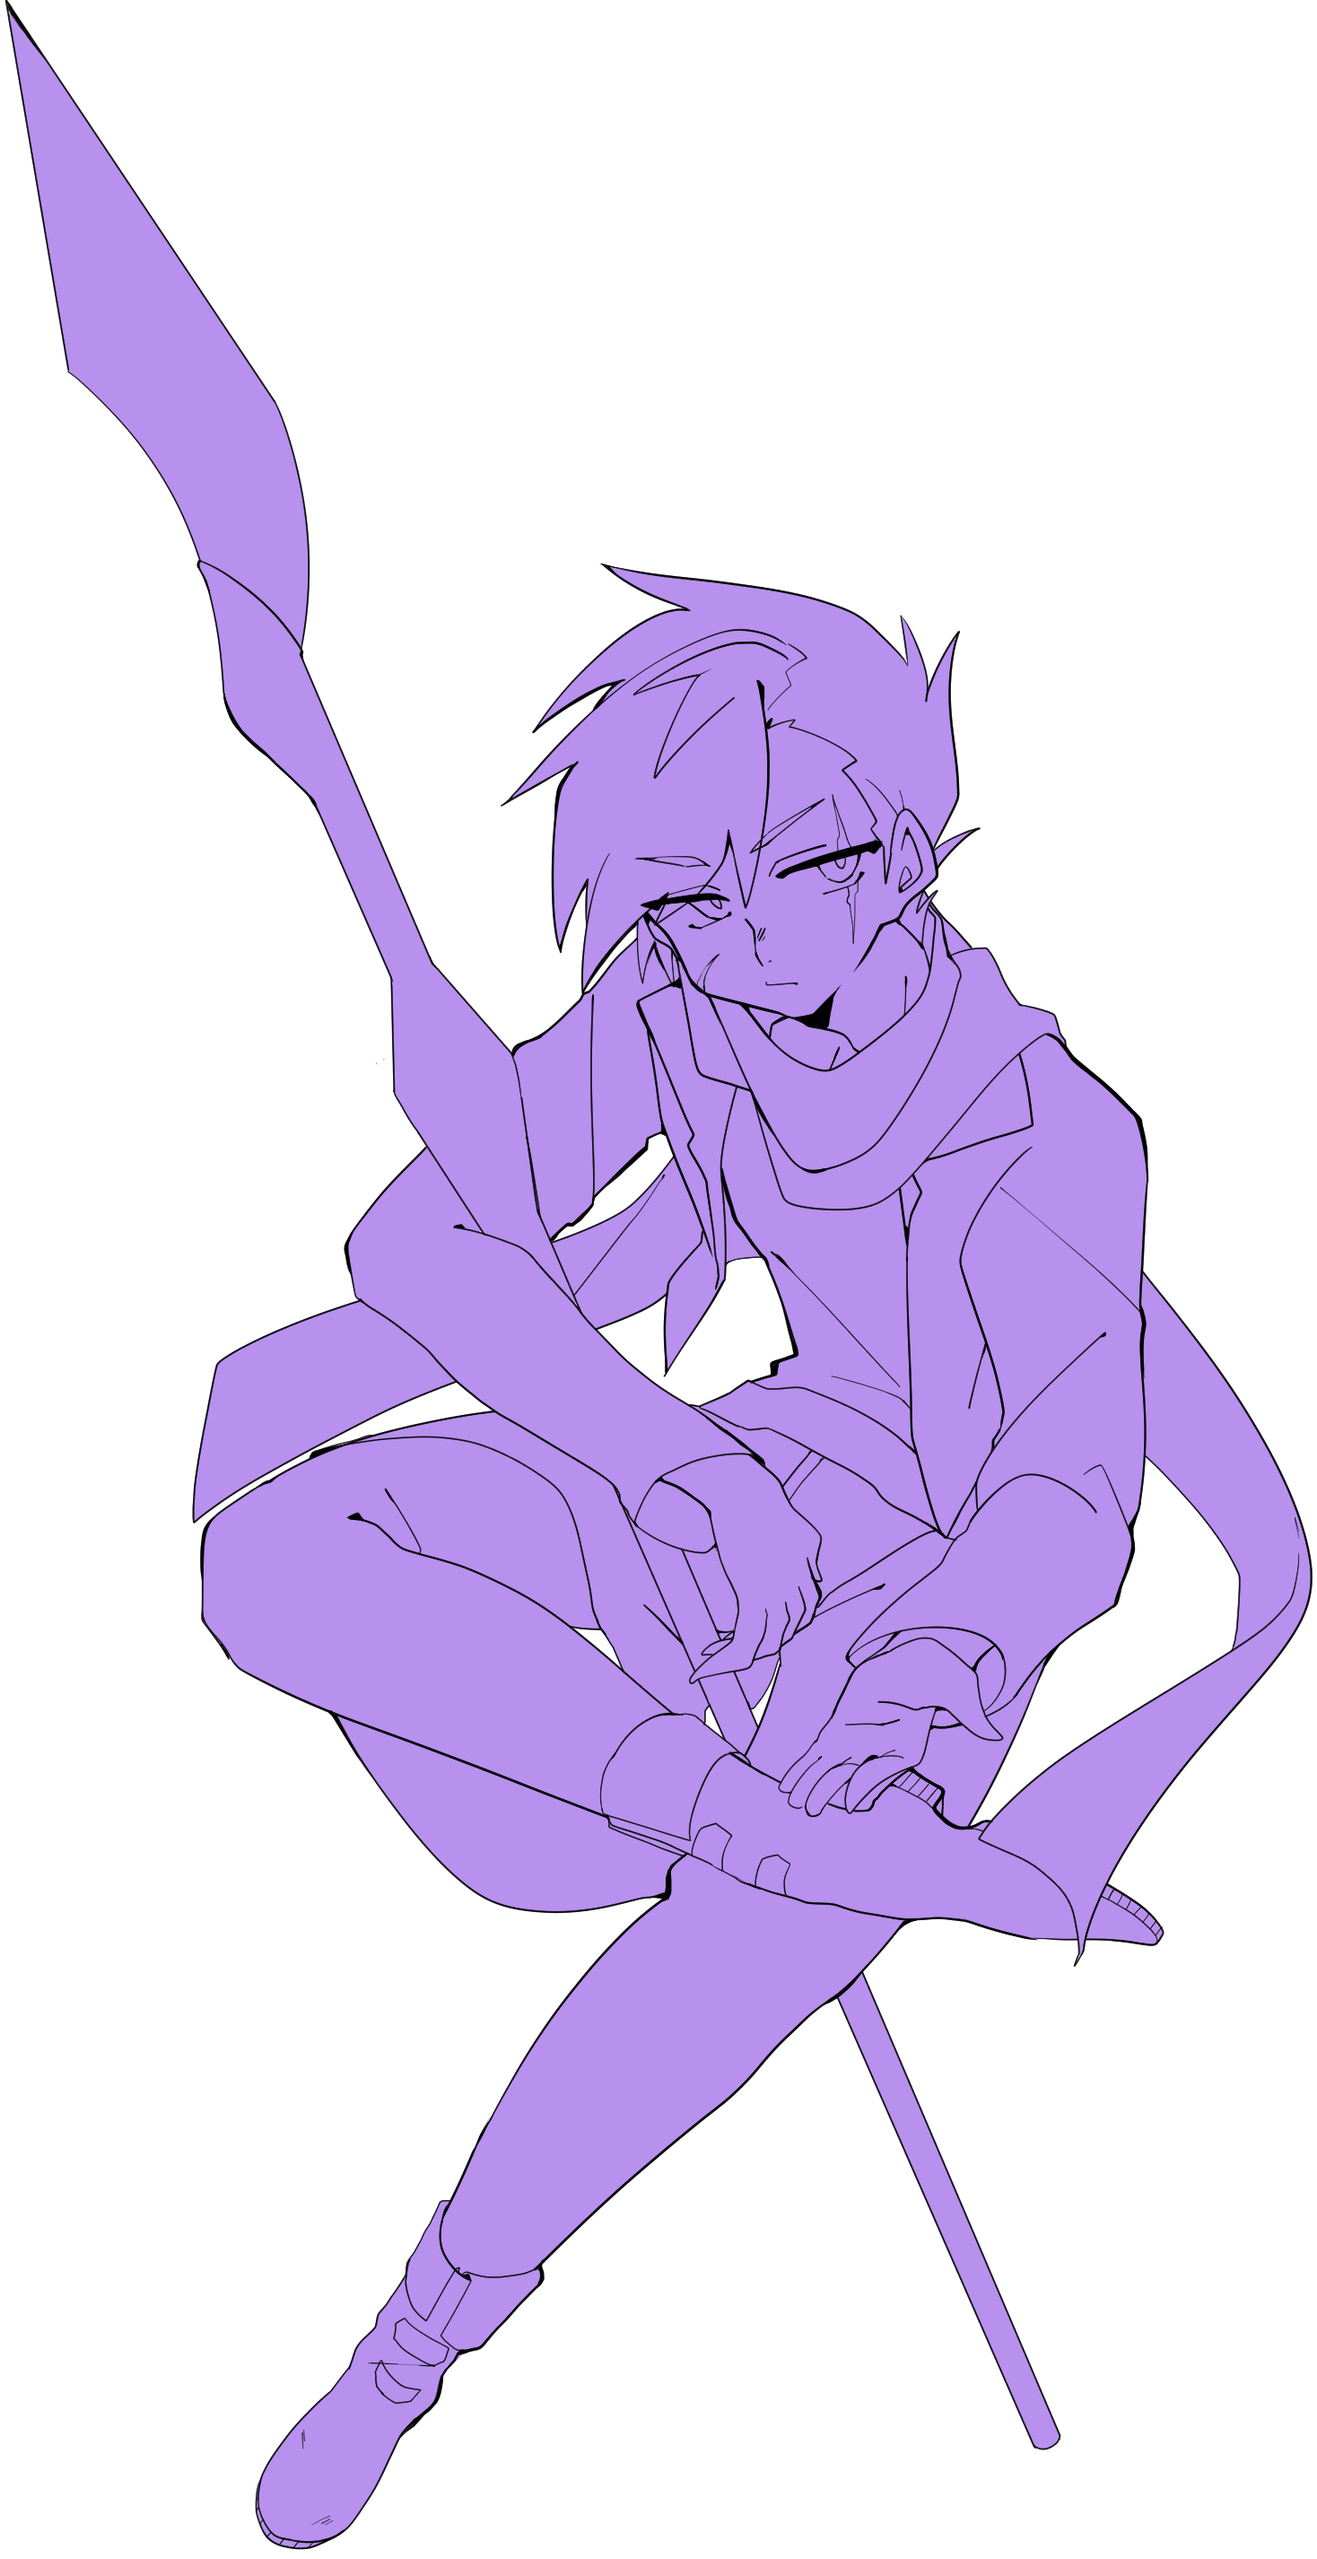
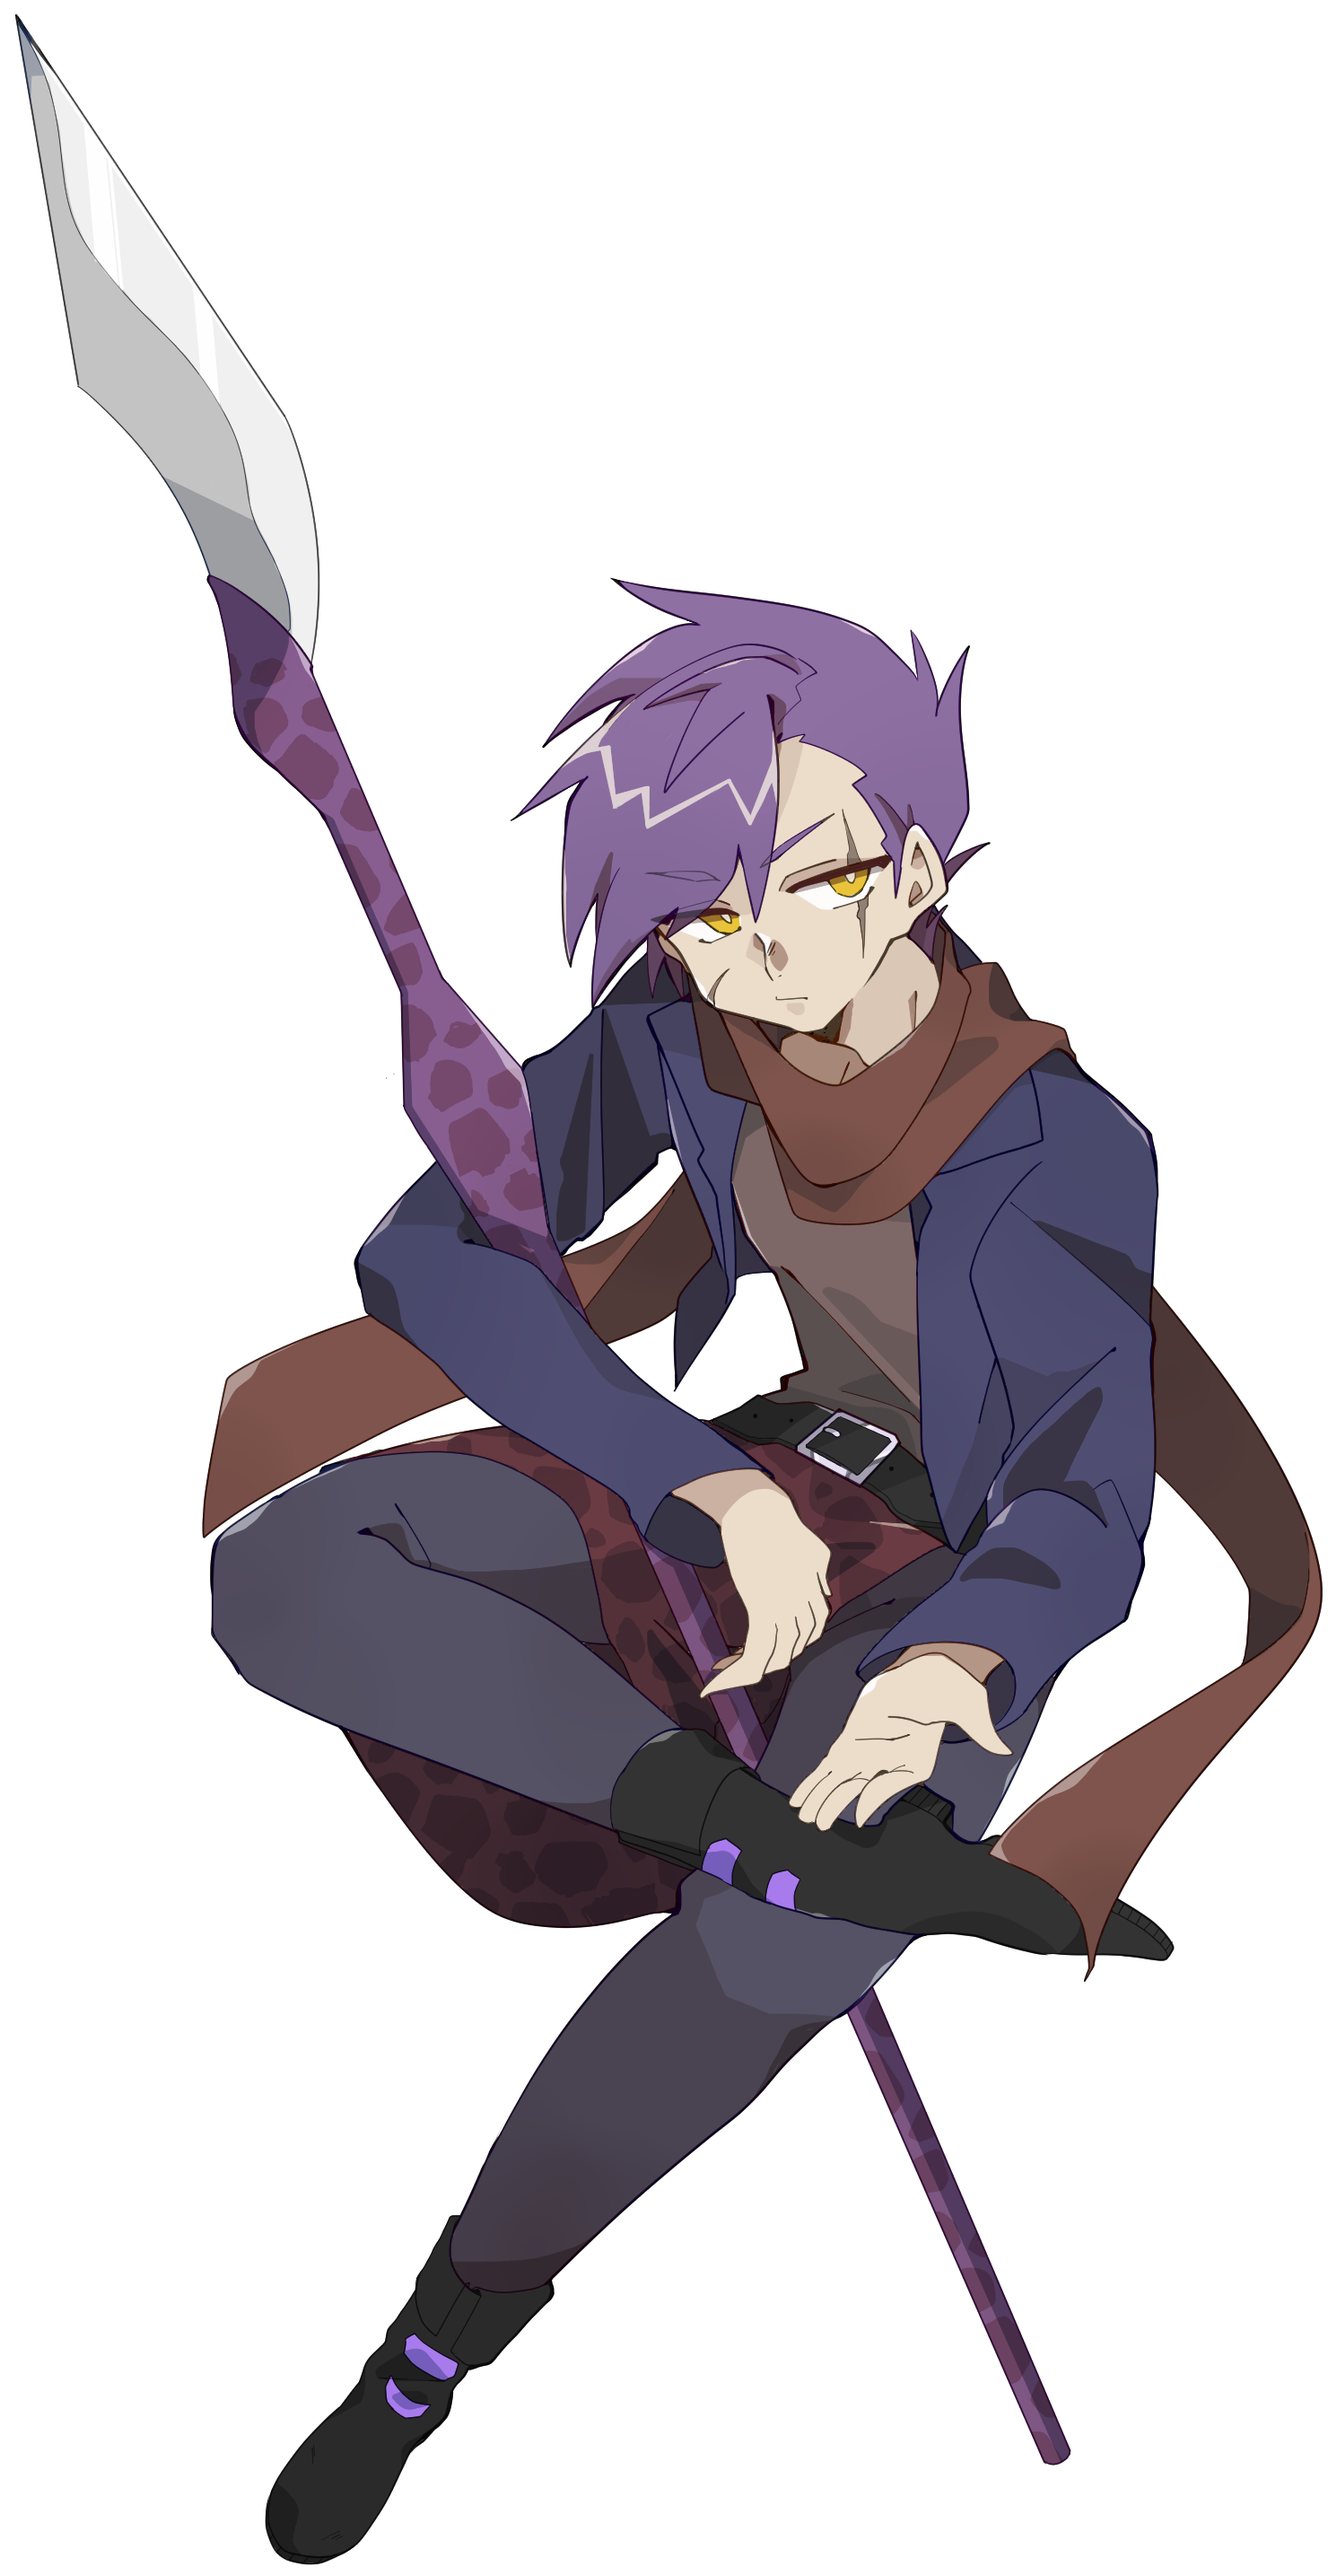
キャラクター追加

diff --git a/js/switching.js b/js/switching.js
@@ -25,8 +25,7 @@ function changeLuke(){
   document.querySelector('.characterName').innerHTML = `<h1><span>ルーク</span></h1>`;
   document.querySelector('.characterAbility').innerHTML = `<p><span>炎属性ファイター｜19歳｜カラクリ：フレイムナックル</span></p>`;
   document.querySelector('.characterProfile').innerHTML = `<p><span>街を守る警備組織 [カラクリナイツ] の一員.<br>何事にも全力で情に厚い男.<br>同期のヒロナからは「熱血すぎ」と呆れられがち.<br>本人はそんなことを意に介さず、<br>今日もカラクリ片手に街の平和を守り抜く！<br><br></span></p><p><span>「街の平和を乱すのはどこのどいつだ！」</span></p>`;
-  document.querySelector('.characterMove').innerHTML = `      <img src="images/mimil_charaparts_active.png" onClick="changeLuke()"><img src="images/hirona_charaparts.png" onClick="changeHirona()"><img src="images/mimil_charaparts.png" onClick="changeKana()"><img src="images/mimil_charaparts.png" onClick="changeMichelle()"><img src="images/mimil_charaparts.png" onClick="changeLeonard()">
-`;
+  document.querySelector('.characterMove').innerHTML = `<img src="images/mimil_charaparts_active.png" onClick="changeLuke()"><img src="images/hirona_charaparts.png" onClick="changeHirona()"><img src="images/mimil_charaparts.png" onClick="changeKana()"><img src="images/mimil_charaparts.png" onClick="changeMichelle()"><img src="images/leonard_charaparts.png" onClick="changeLeonard()">`;
 }
 
 function changeHirona(){
@@ -34,8 +33,7 @@ function changeHirona(){
   document.querySelector('.characterName').innerHTML = `<h1><span>ヒロナ</span></h1>`;
   document.querySelector('.characterAbility').innerHTML = `<p><span>水属性ガンナー｜17歳｜カラクリ：アクアキャノン</span></p>`;
   document.querySelector('.characterProfile').innerHTML = `<p><span>街を守る警備組織 [カラクリナイツ] の一員.<br>興味のあること以外は無関心な性格だが、<br>頼まれた仕事はしっかりやっているようだ.<br>音楽好きでいつもヘッドフォンを持ち歩いている.<br><br></span></p><p><span>「…音楽を楽しく聴くには、街が平和じゃないとね」</span></p>`;
-  document.querySelector('.characterMove').innerHTML = `      <img src="images/mimil_charaparts.png" onClick="changeLuke()"><img src="images/hirona_charaparts_active.png" onClick="changeHirona()"><img src="images/mimil_charaparts.png" onClick="changeKana()"><img src="images/mimil_charaparts.png" onClick="changeMichelle()"><img src="images/mimil_charaparts.png" onClick="changeLeonard()">
-`;
+  document.querySelector('.characterMove').innerHTML = `<img src="images/mimil_charaparts.png" onClick="changeLuke()"><img src="images/hirona_charaparts_active.png" onClick="changeHirona()"><img src="images/mimil_charaparts.png" onClick="changeKana()"><img src="images/mimil_charaparts.png" onClick="changeMichelle()"><img src="images/leonard_charaparts.png" onClick="changeLeonard()">`;
 }
 
 function changeKana(){
@@ -43,24 +41,21 @@ function changeKana(){
   document.querySelector('.characterName').innerHTML = `<h1><span>カナ</span></h1>`;
   document.querySelector('.characterAbility').innerHTML = `<p><span>風属性ヒーラー｜25歳｜カラクリ：ヒーリングボム</span></p>`;
   document.querySelector('.characterProfile').innerHTML = `<p><span>街外れにある教会のシスター.<br>優しく、マイペースな性格.<br>気まぐれに触ったカラクリに興味を持ち、のめり込んだ.<br>カラクリ片手に戦うというのは<br>シスター的にどうなのかと周りは思っているが、<br>マイペースな彼女はあまり気にしていないようだ.<br><br></span></p><p><span>「」</span></p>`;
-  document.querySelector('.characterMove').innerHTML = `      <img src="images/mimil_charaparts.png" onClick="changeLuke()"><img src="images/hirona_charaparts.png" onClick="changeHirona()"><img src="images/mimil_charaparts_active.png" onClick="changeKana()"><img src="images/mimil_charaparts.png" onClick="changeMichelle()"><img src="images/mimil_charaparts.png" onClick="changeLeonard()">
-`;
+  document.querySelector('.characterMove').innerHTML = `<img src="images/mimil_charaparts.png" onClick="changeLuke()"><img src="images/hirona_charaparts.png" onClick="changeHirona()"><img src="images/mimil_charaparts_active.png" onClick="changeKana()"><img src="images/mimil_charaparts.png" onClick="changeMichelle()"><img src="images/leonard_charaparts.png" onClick="changeLeonard()">`;
 }
 function changeMichelle(){
   document.querySelector('.character').innerHTML = `<img src="images/mimil_unit.png">`;
   document.querySelector('.characterName').innerHTML = `<h1><span>ミシェル</span></h1>`;
   document.querySelector('.characterAbility').innerHTML = `<p><span>光属性ソードマン｜15歳｜カラクリ：スライサー</span></p>`;
   document.querySelector('.characterProfile').innerHTML = `<p><span>ちょっぴり危ない雰囲気の女の子.<br>惚れっぽい性格で、いつも恋に燃えている.<br>カラクリアリーナに挑戦し始めてからは、<br>自分より強い人に惹かれるようになったらしい.<br><br></span></p><p><span>「あぁ、あの人こそきっと私の王子様！」</span></p>`;
-  document.querySelector('.characterMove').innerHTML = `      <img src="images/mimil_charaparts.png" onClick="changeLuke()"><img src="images/hirona_charaparts.png" onClick="changeHirona()"><img src="images/mimil_charaparts.png" onClick="changeKana()"><img src="images/mimil_charaparts_active.png" onClick="changeMichelle()"><img src="images/mimil_charaparts.png" onClick="changeLeonard()">
-`;
+  document.querySelector('.characterMove').innerHTML = `<img src="images/mimil_charaparts.png" onClick="changeLuke()"><img src="images/hirona_charaparts.png" onClick="changeHirona()"><img src="images/mimil_charaparts.png" onClick="changeKana()"><img src="images/mimil_charaparts_active.png" onClick="changeMichelle()"><img src="images/leonard_charaparts.png" onClick="changeLeonard()">`;
 }
 function changeLeonard(){
-  document.querySelector('.character').innerHTML = `<img src="images/mimil_unit.png">`;
+  document.querySelector('.character').innerHTML = `<img src="images/leonard_unit.png">`;
   document.querySelector('.characterName').innerHTML = `<h1><span>レオナルド</span></h1>`;
-  document.querySelector('.characterAbility').innerHTML = `<p><span>闇属性ランサー｜20歳｜カラクリ：ランス</span></p>`;
-  document.querySelector('.characterProfile').innerHTML = `<p><span>ちょっぴり危ない雰囲気の女の子.<br>惚れっぽい性格で、いつも恋に燃えている.<br>カラクリアリーナに挑戦し始めてからは、<br>自分より強い人に惹かれるようになったらしい.<br><br></span></p><p><span>「」</span></p>`;
-  document.querySelector('.characterMove').innerHTML = `      <img src="images/mimil_charaparts.png" onClick="changeLuke()"><img src="images/hirona_charaparts.png" onClick="changeHirona()"><img src="images/mimil_charaparts.png" onClick="changeKana()"><img src="images/mimil_charaparts.png" onClick="changeMichelle()"><img src="images/mimil_charaparts_active.png" onClick="changeLeonard()">
-`;
+  document.querySelector('.characterAbility').innerHTML = `<p><span>闇属性ランサー｜20歳｜カラクリ：ゲリンゼル</span></p>`;
+  document.querySelector('.characterProfile').innerHTML = `<p><span>荒くれ者ギルド[ドロップアウトディーバ]の一員.<br>イカつい見た目と粗野な言動から怖がられがちだが、<br>実は人と話すのが苦手なだけ.<br>ただし、一度キレると怒りを制御できなくなるので、注意が必要.<br><br></span></p><p><span>「」</span></p>`;
+  document.querySelector('.characterMove').innerHTML = `<img src="images/mimil_charaparts.png" onClick="changeLuke()"><img src="images/hirona_charaparts.png" onClick="changeHirona()"><img src="images/mimil_charaparts.png" onClick="changeKana()"><img src="images/mimil_charaparts.png" onClick="changeMichelle()"><img src="images/leonard_charaparts_active.png" onClick="changeLeonard()">`;
 }
 
 

diff --git a/index.html b/index.html
@@ -132,7 +132,6 @@
 
     <!--ツイッター連携-->
     <div class="version">
-      <!--<img src="images/version.png">-->
       <a class="twitter-timeline" data-width="100%" data-height="270" data-theme="dark" data-link-color="#FAB81E" href="https://twitter.com/KarakuriWars?ref_src=twsrc%5Etfw">Tweets by KarakuriWars</a> <script async src="https://platform.twitter.com/widgets.js" charset="utf-8"></script></div>
 
       <!--キャラクター-->
@@ -173,7 +172,7 @@
 
     <!--キャラクター切り替え-->
     <div class="characterMove">
-      <img src="images/mimil_charaparts_active.png" onclick="changeLuke()"><img src="images/hirona_charaparts.png" onclick="changeHirona()"><img src="images/mimil_charaparts.png" onclick="changeKana()"><img src="images/mimil_charaparts.png" onclick="changeMichelle()"><img src="images/mimil_charaparts.png" onclick="changeLeonard()">
+      <img src="images/mimil_charaparts_active.png" onclick="changeLuke()"><img src="images/hirona_charaparts.png" onclick="changeHirona()"><img src="images/mimil_charaparts.png" onclick="changeKana()"><img src="images/mimil_charaparts.png" onclick="changeMichelle()"><img src="images/leonard_charaparts.png" onclick="changeLeonard()">
     </div>
 
 

diff --git a/css/style_mobile.css b/css/style_mobile.css
@@ -395,13 +395,13 @@
   }
 
   .character {
-    grid-row: 8;
-    grid-column: 2 / 10;
+    grid-row: 8 /10;
+    grid-column: 1 / 11;
     text-align: center;
   }
 
   .character img {
-    width: 90%;
+    height: 72%;
   }
 
   .character-caption {
